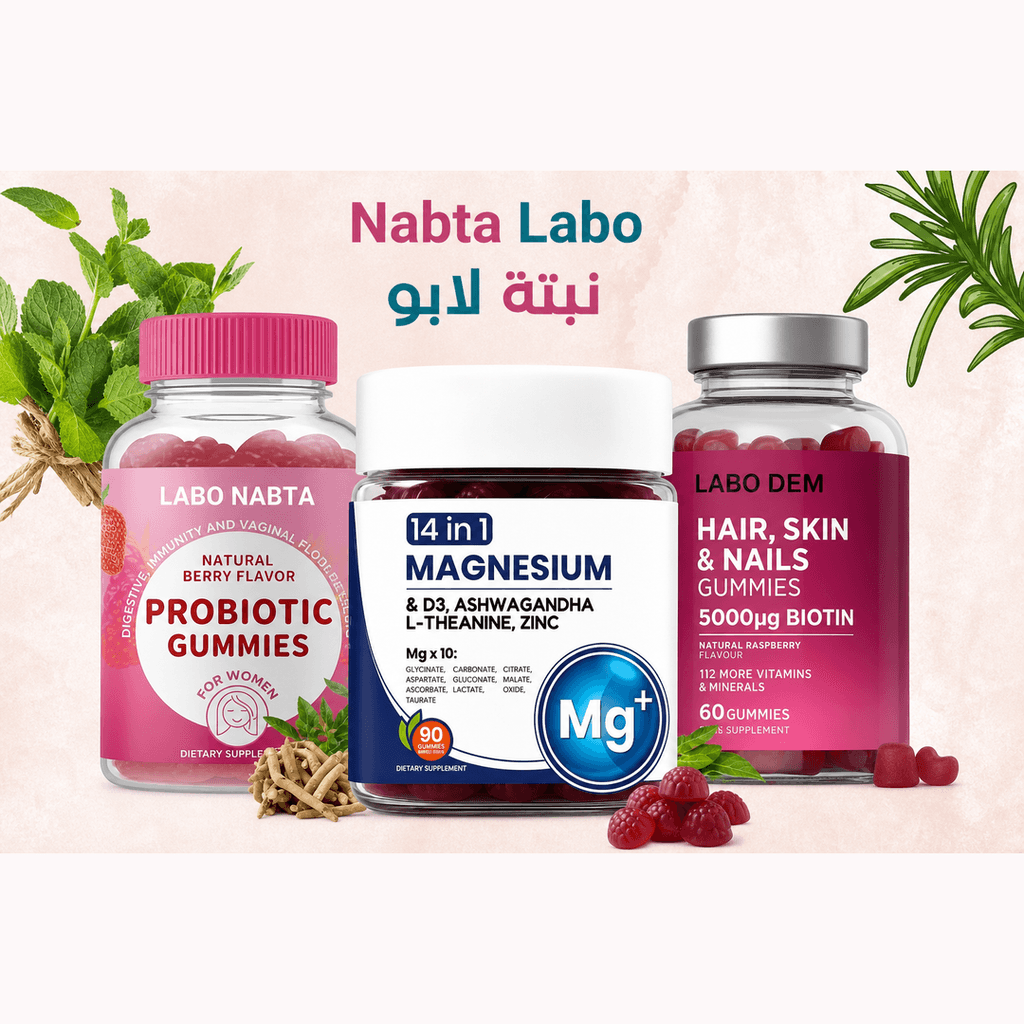
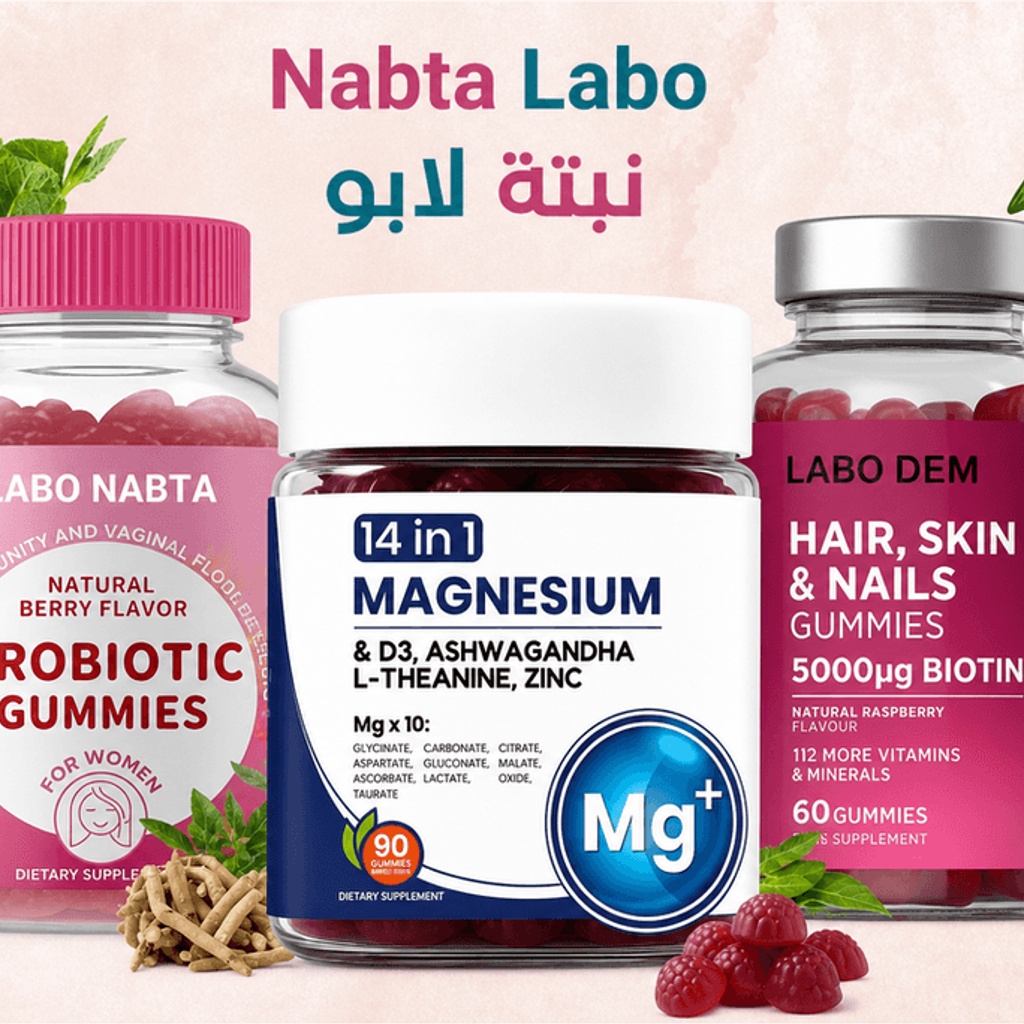
Homepage hero: image fills frame edge-to-edge.
Square aspect slot with object-cover; trim asset padding so products fill the space.

diff --git a/app/page.tsx b/app/page.tsx
@@ -128,14 +128,14 @@ export default function HomePage() {
             </div>
 
             <div
-              className="order-1 md:order-2 w-full rounded-3xl bg-white p-2 sm:p-2.5 md:p-3"
+              className="order-1 md:order-2 w-full rounded-3xl bg-white p-3 sm:p-4 md:p-5"
               style={{
                 border: '1px solid #EADFD6',
                 boxShadow:
                   '0 0 0 1px rgba(184, 104, 116, 0.2), 0 22px 60px -24px rgba(28, 28, 28, 0.1), 0 8px 24px -10px rgba(184, 72, 92, 0.09), inset 0 1px 0 rgba(255,255,255,0.85)',
               }}
             >
-              <div className="rounded-2xl overflow-hidden bg-[#FDF8F9] relative aspect-square w-full">
+              <div className="rounded-2xl overflow-hidden bg-[#FDF8F9] relative aspect-square">
                 <div
                   className="absolute bottom-2 start-2 sm:bottom-3 sm:start-3 z-10 rounded-lg px-2 py-1.5 sm:px-2.5 sm:py-2 text-right max-w-[5.75rem] sm:max-w-[6.75rem]"
                   style={{
@@ -155,8 +155,8 @@ export default function HomePage() {
                   alt="ثلاث علكات Labo Nabta: بروبيوتيك للنساء، مغنيسيوم ١٤ من ١، وجمال الشعر والبشرة والأظافر ببيوتين"
                   fill
                   priority
-                  sizes="(max-width: 768px) 100vw, min(50vw, 640px)"
-                  className="object-cover scale-[1.06]"
+                  sizes="(max-width: 768px) 100vw, 560px"
+                  className="object-cover object-center"
                 />
               </div>
             </div>
